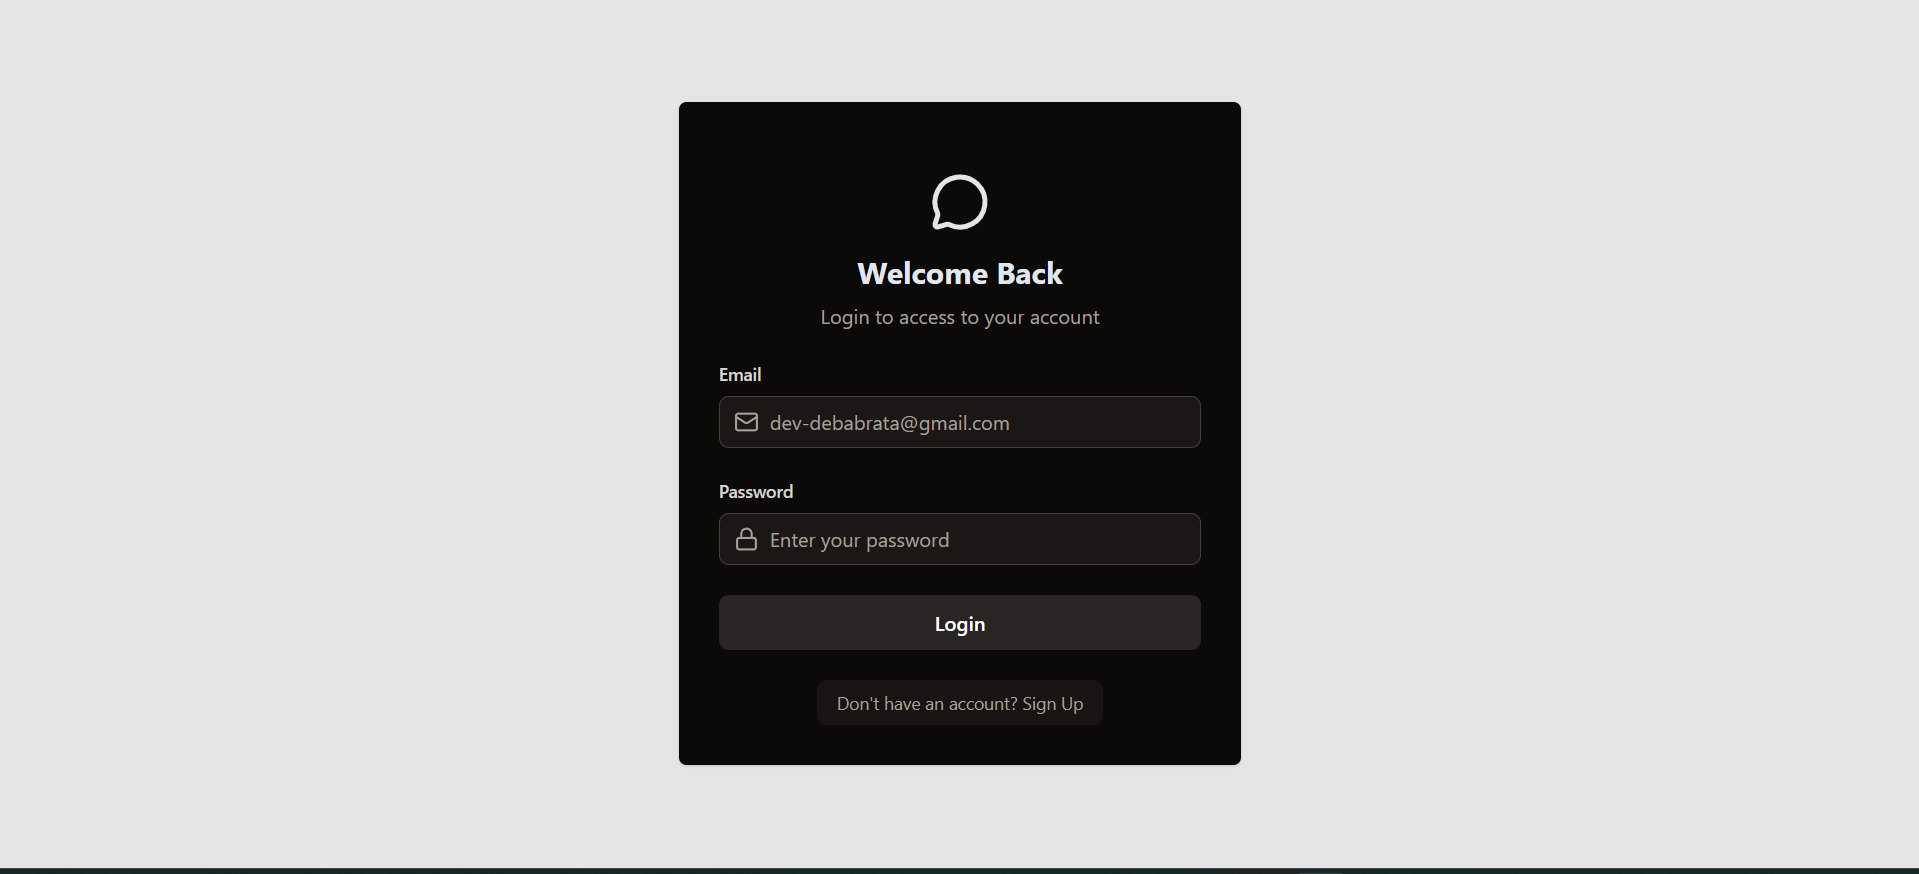
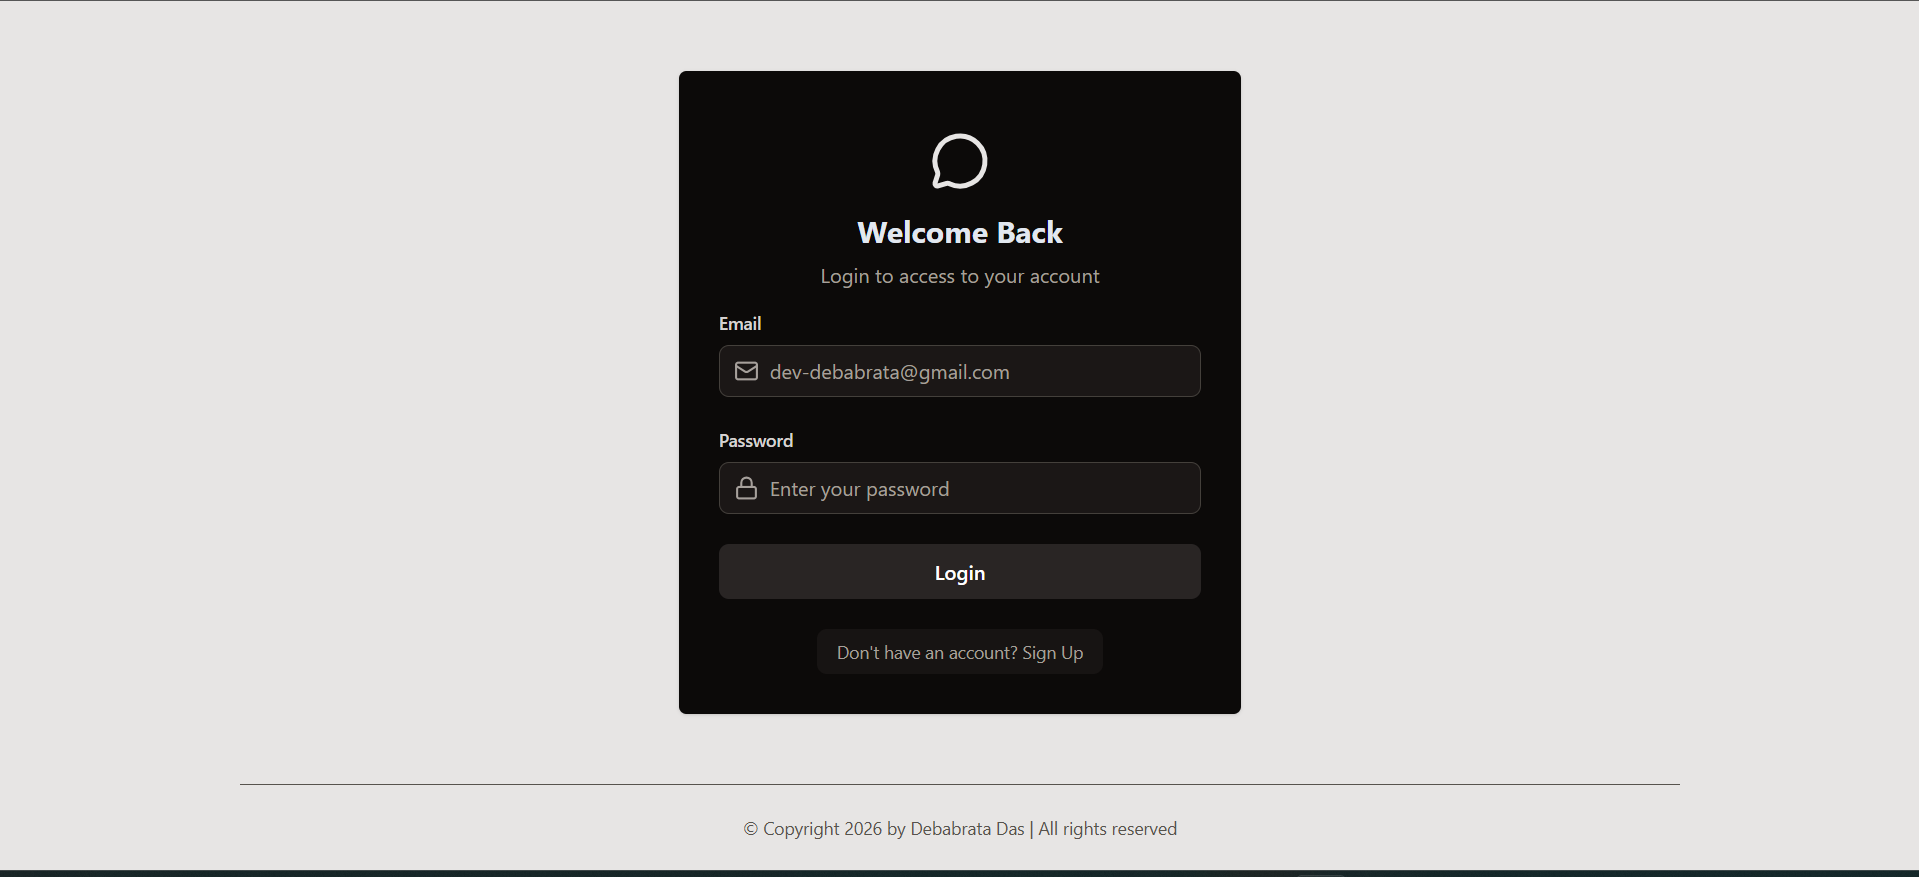
16-01-2026

diff --git a/frontend/src/App.jsx b/frontend/src/App.jsx
@@ -1,4 +1,4 @@
-import { Navigate, Route, Routes } from "react-router";
+import { Navigate, Route, Routes, useLocation } from "react-router";
 import { useAuthStore } from "./store/useAuthStore";
 import { useEffect } from "react";
 import { Toaster } from "react-hot-toast";
@@ -7,12 +7,12 @@ import Profile from "./pages/Profile";
 import LoginPage from "./pages/Auth/LoginPage";
 import SignUpPage from "./pages/Auth/SignupPage";
 import PageLoader from "./components/PageLoader";
-
-
+import Footer from "./components/Footer";
 
 
 function App() {
   const { checkAuth, isCheckingAuth, authUser } = useAuthStore();
+  const location = useLocation();
 
   useEffect(() => {
     checkAuth();
@@ -20,18 +20,27 @@ function App() {
 
   if (isCheckingAuth) return <PageLoader />;
 
-  return (
-    <div className="min-h-screen bg-stone-200 flex items-center justify-center overflow-hidden">
+  const showFooter = location.pathname === "/login" || location.pathname === "/signup";
 
-      <Routes>
-        <Route path="/" element={authUser ? <ChatPage /> : <Navigate to={"/login"} />} />
-        <Route path="/profile" element={authUser ? <Profile /> : <Navigate to={"/login"} />} />
-        <Route path="/login" element={!authUser ? <LoginPage /> : <Navigate to={"/"} />} />
-        <Route path="/signup" element={!authUser ? <SignUpPage /> : <Navigate to={"/"} />} />
-      </Routes>
+  return (
+    <div className="min-h-screen bg-stone-200 flex flex-col">
+
+      {/* Main content */}
+      <div className="flex-1 flex items-center justify-center overflow-hidden">
+        <Routes>
+          <Route path="/" element={authUser ? <ChatPage /> : <Navigate to={"/login"} />} />
+          <Route path="/profile" element={authUser ? <Profile /> : <Navigate to={"/login"} />} />
+          <Route path="/login" element={!authUser ? <LoginPage /> : <Navigate to={"/"} />} />
+          <Route path="/signup" element={!authUser ? <SignUpPage /> : <Navigate to={"/"} />} />
+        </Routes>
+      </div>
+
+      {/* Footer */}
+      {showFooter && <Footer />}
 
       <Toaster />
     </div>
+
   );
 }
 export default App;

diff --git a/backend/server.js b/backend/server.js
@@ -1,6 +1,5 @@
 import express from "express";
 import cookieParser from "cookie-parser";
-import dotenv from "dotenv";
 import path from "path";
 import cors from "cors";
 import { fileURLToPath } from "url";
@@ -36,15 +35,24 @@ app.use("/api/messages", messageRoutes);
 
 
 // PRODUCTION FRONTEND SERVE
-if (process.env.NODE_ENV === "production") {
-    const pathToFrontend = path.join(__dirname, '..', 'frontend', 'dist');
+if (ENV.NODE_ENV === "production") {
+    app.use(express.static(path.join(__dirname, "../frontend/dist")));
 
-    app.use(express.static(pathToFrontend));
-
-    app.get(/.*/, (req, res) => {
-        res.sendFile(path.resolve(pathToFrontend, "index.html"));
+    app.get("*", (_, res) => {
+        res.sendFile(path.join(__dirname, "../frontend", "dist", "index.html"));
     });
 }
+
+
+// if (process.env.NODE_ENV === "production") {
+//     const pathToFrontend = path.join(__dirname, '..', 'frontend', 'dist');
+
+//     app.use(express.static(pathToFrontend));
+
+//     app.get(/.*/, (req, res) => {
+//         res.sendFile(path.resolve(pathToFrontend, "index.html"));
+//     });
+// }
 
 
 server.listen(PORT, () => {

diff --git a/frontend/src/pages/Auth/SignupPage.jsx b/frontend/src/pages/Auth/SignupPage.jsx
@@ -14,7 +14,7 @@ function SignUpPage() {
 
     return (
         <div className="w-[450px] p-8 bg-stone-950 rounded-md shadow">
-            <div className="text-center my-6">
+            <div className="text-center my-4">
                 <MessageCircleIcon className="w-12 h-12 mx-auto text-stone-200 mb-4" />
                 <h2 className="text-2xl font-bold text-stone-200 mb-2">Create Account</h2>
                 <p className="text-stone-400">Sign up for a new account</p>
@@ -93,7 +93,7 @@ function SignUpPage() {
             </form>
 
             <div className="mt-6 text-center">
-                <Link to="/login" className="px-4 py-2 inline-block bg-stone-500/10 rounded-lg text-stone-400 hover:text-stone-500 text-sm transition-colors">
+                <Link to="/login" className="px-4 py-2 inline-block bg-stone-500/10 rounded-lg text-stone-400 hover:text-blue-500 text-sm transition-colors">
                     Already have an account? Login
                 </Link>
             </div>

diff --git a/frontend/src/pages/Auth/LoginPage.jsx b/frontend/src/pages/Auth/LoginPage.jsx
@@ -14,7 +14,7 @@ function LoginPage() {
 
     return (
         <div className="w-[450px] p-8 bg-stone-950 rounded-md shadow">
-            <div className="text-center text-white my-6">
+            <div className="text-center text-white my-4">
                 <MessageCircleIcon className="w-12 h-12 mx-auto text-stone-200 mb-4" />
                 <h2 className="text-2xl font-bold text-slate-200 mb-2">
                     Welcome Back
@@ -80,7 +80,7 @@ function LoginPage() {
             <div className="mt-6 text-center">
                 <Link
                     to="/signup"
-                    className="px-4 py-2 inline-block bg-stone-500/10 rounded-lg text-stone-400 hover:text-stone-500 text-sm transition-colors">
+                    className="px-4 py-2 inline-block bg-stone-500/10 rounded-lg text-stone-400 hover:text-blue-500 text-sm transition-colors">
                     Don't have an account? Sign Up
                 </Link>
             </div>

diff --git a/frontend/src/store/useChatStore.js b/frontend/src/store/useChatStore.js
@@ -11,12 +11,6 @@ export const useChatStore = create((set, get) => ({
   selectedUser: null,
   isUsersLoading: false,
   isMessagesLoading: false,
-  isSoundEnabled: JSON.parse(localStorage.getItem("isSoundEnabled")) === true,
-
-  toggleSound: () => {
-    localStorage.setItem("isSoundEnabled", !get().isSoundEnabled);
-    set({ isSoundEnabled: !get().isSoundEnabled });
-  },
 
   setActiveTab: (tab) => set({ activeTab: tab }),
   setSelectedUser: (selectedUser) => set({ selectedUser }),

diff --git a/frontend/src/components/Footer.jsx b/frontend/src/components/Footer.jsx
@@ -1,0 +1,14 @@
+import React from 'react'
+
+export default function Footer() {
+
+    const currentYear = new Date().getFullYear();
+
+    return (
+        <footer>
+            <div className="p-6 text-center text-sm text-stone-600 border-t mx-auto max-w-6xl">
+                <h1>© Copyright {currentYear} by Debabrata Das | All rights reserved</h1>
+            </div>
+        </footer>
+    );
+}

diff --git a/backend/lib/utils.js b/backend/lib/utils.js
@@ -14,8 +14,8 @@ export const generateToken = (userId, res) => {
   res.cookie("jwt", token, {
     maxAge: 7 * 24 * 60 * 60 * 1000,
     httpOnly: true,
-    sameSite: "none",
-    secure: ENV.NODE_ENV === "development" ? false : true,
+    sameSite: ENV.NODE_ENV === "production" ? "none" : "lax",
+    secure: ENV.NODE_ENV === "production",
   });
 
   return token;

diff --git a/frontend/index.html b/frontend/index.html
@@ -4,7 +4,7 @@
     <meta charset="UTF-8" />
     <link rel="icon" type="image/svg+xml" href="/chat-logo-2.png" />
     <meta name="viewport" content="width=device-width, initial-scale=1.0" />
-    <title>Chat App By - Debabrata</title>
+    <title>DevChat By - Debabrata</title>
   </head>
   <body>
     <div id="root"></div>

diff --git a/frontend/src/components/PageLoader.jsx b/frontend/src/components/PageLoader.jsx
@@ -3,7 +3,7 @@ import { LoaderIcon } from "lucide-react";
 
 function PageLoader() {
   return (
-    <div className="flex items-center justify-center h-screen bg-stone-400 ">
+    <div className="flex items-center justify-center h-screen bg-stone-200 ">
       <LoaderIcon className="size-10 animate-spin" />
     </div>
   );
